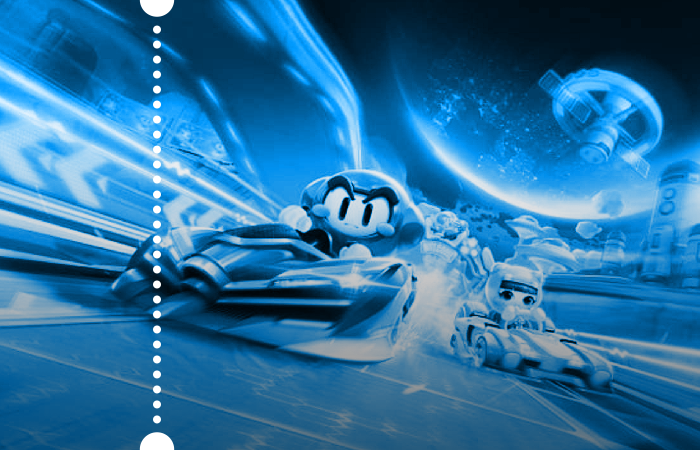
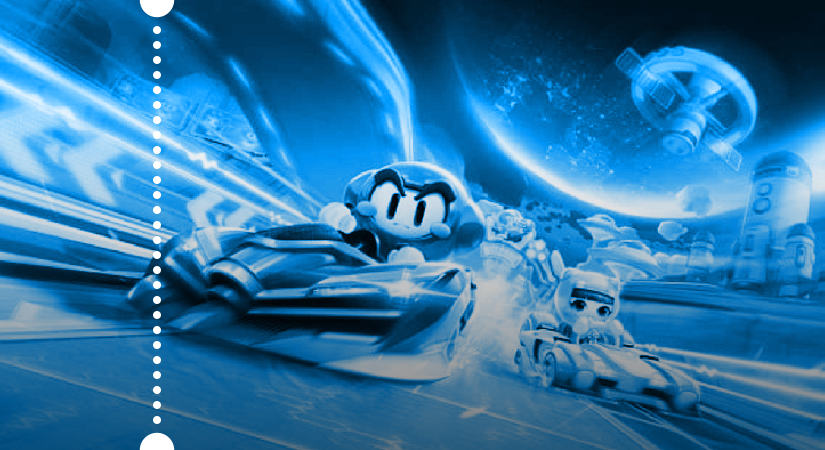
Add files via upload

diff --git a/css/mobile.css b/css/mobile.css
@@ -9,14 +9,15 @@
   align-items: center;
 
   top:10vh;
-  background-color:white;
+  /* background-color:white; */
 }
 
 .startbutton_mobile{
-  width:280px;
-  height:80px;
+  width:320px;
+  height:90px;
   margin:0 auto;
   border-radius:300px;
+  padding: 10px 0 0 0;
 
   display:flex;
   justify-content: center;
@@ -39,7 +40,9 @@
 
 .startbutton_mobile p {
   text-align: center;
-  font-size:30pt;
+  font-size:35pt;
+  font-family:"Black Han Sans",sans-serif;
+  font-weight:300;
 
   -ms-user-select: none;
   -moz-user-select: -moz-none;
@@ -71,6 +74,9 @@
   display:flex;
   flex-direction: row;
   justify-content: space-between;
+
+  filter: drop-shadow(4px 3px 3px rgba(0,0,0,0.3));
+  background-color:transparent;
 }
 
 .mobilecards-text-container{
@@ -81,27 +87,71 @@
   display:flex;
   justify-content:flex-end;
   align-items:flex-end;
+  margin-right:40px;
   color:white;
   font-size:60pt;
   font-family:'Black Han Sans',sans-serif;
+  background-color:transparent;
 }
 .mobilecards_sidebox{
   width:23%;
   height:450px;
   background-color:white;
 }
+.sidebox_text{
+  writing-mode:vertical-rl;
+  text-align: center;
+  margin:15px 0 0 10px;
+  font-size:13pt;
+  font-family:'Source Sans Pro';
+  font-weight: 600;
+  letter-spacing: 5px;
+  color:rgba(0,0,0,0.5);
+  height:120px;
+}
 .circle{
-  width:30px;
-  height:30px;
+  width:60px;
+  height:60px;
   border-radius: 100px;
+  margin:230px 0 0 120px;
+
+}
+.mobilecards_active{
+  width:78%;
+  height:450px;
+  background-color:gray;
   position:absolute;
-  top:420px;
-  right:70px;
-  background-color:#009bff;
+  display:none;
+  z-index: 6;
 }
 
 #Cartrider_mobile{
   background-image:url("../image/cartrider-mobile.png");
+}
+
+#Lol_mobile{
+  background-image:url("../image/lol-mobile.png");
+}
+
+#Sidebox_text{
+  letter-spacing: 0px;
+  font-size:10pt;
+}
+
+#Crazyarcade_mobile{
+  background-image:url("../image/crazyarcade-mobile.png");
+}
+
+#Battleground_mobile{
+  background-image:url("../image/battleground-mobile.png");
+}
+
+#Escape_mobile{
+  background-image:url("../image/escape-mobile.png");
+}
+
+.mobilecards:active .mobilecards_active{
+  display:flex;
 }
 
 
@@ -116,10 +166,10 @@
   }
   html{
     background-image: url("../image/sitebackground-mobile.png");
-    background-size:80%;
+    background-size:100%;
     background-position: top center;
     background-repeat: no-repeat;
-    background-color:#ADEFF9;
+    background-color:#B8F1F9;
   }
   body{
     font-family:"Gothic A1", sans-serif;
@@ -129,5 +179,23 @@
   }
   .mobile_background_container{
     display:flex;
+  }
+
+  .character{
+    position:absolute;
+    top:420px;
+    left:1.2vw;
+  }
+
+  .instagram{
+    width:22px;
+    height:22px;
+    top:3000px;
+  }
+  .instagram_text{
+    top:3000px;
+  }
+  .mynameisjunsung{
+    top:3030px;
   }
 }

diff --git a/html/index.html b/html/index.html
@@ -21,7 +21,7 @@
     <link rel="stylesheet" href="../css/mobile.css">
     <link rel="preconnect" href="https://fonts.googleapis.com">
     <link rel="preconnect" href="https://fonts.gstatic.com" crossorigin>
-    <link href="https://fonts.googleapis.com/css2?family=Black+Han+Sans&family=Gothic+A1:wght@200;300;400;500;600&display=swap" rel="stylesheet">
+    <link href="https://fonts.googleapis.com/css2?family=Black+Han+Sans&family=Gothic+A1:wght@200;300;400;500;600&family=Source+Sans+Pro:wght@200;300;400;600&display=swap" rel="stylesheet">
     <script src="../js/jquery.js"></script>
   </head>
   <body>
@@ -145,12 +145,39 @@
     <div class="mobile_background_container">
       <div class="mobilecards" id="Cartrider_mobile">
         <div class="mobilecards-text-container">카트라이더</div>
-        <div class="mobilecards_sidebox"><div class="circle"></div></div>
+        <div class="mobilecards_sidebox">
+          <div class="sidebox_text">Kartrider</div>
+          <div class="circle" style="background-color:#146eb4;"></div>
+        </div>
       </div>
-      <div class="mobilecards"></div>
-      <div class="mobilecards"></div>
-      <div class="mobilecards"></div>
-      <div class="mobilecards"></div>
+      <div class="mobilecards" id="Lol_mobile">
+        <div class="mobilecards-text-container">롤 학공전</div>
+        <div class="mobilecards_sidebox">
+          <div class="sidebox_text" id="Sidebox_text">League of Legends</div>
+          <div class="circle" style="background-color:#6a1392;"></div>
+        </div>
+      </div>
+      <div class="mobilecards" id="Crazyarcade_mobile">
+        <div class="mobilecards-text-container">크레이지아케이드</div>
+        <div class="mobilecards_sidebox">
+          <div class="sidebox_text" id="Sidebox_text">League of Legends</div>
+          <div class="circle" style="background-color:#ff5757;"></div>
+        </div>
+      </div>
+      <div class="mobilecards" id="Battleground_mobile">
+        <div class="mobilecards-text-container">배틀그라운드</div>
+        <div class="mobilecards_sidebox">
+          <div class="sidebox_text" id="Sidebox_text">League of Legends</div>
+          <div class="circle" style="background-color:#d5aa00;"></div>
+        </div>
+      </div>
+      <div class="mobilecards" id="Escape_mobile">
+        <div class="mobilecards-text-container">방탈출</div>
+        <div class="mobilecards_sidebox">
+          <div class="sidebox_text" id="Sidebox_text">League of Legends</div>
+          <div class="circle" style="background-color:#510909;"></div>
+        </div>
+      </div>
     </div>
 
 
